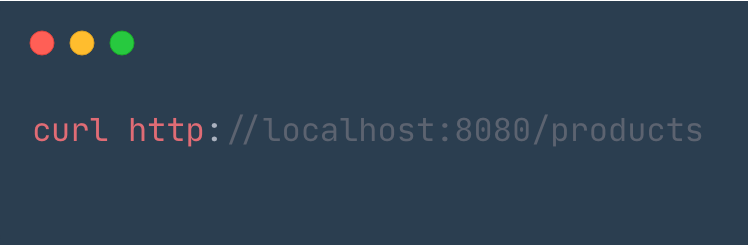
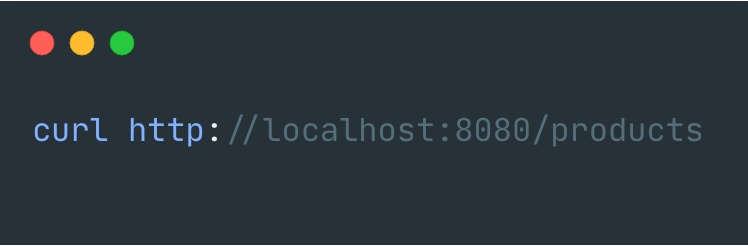
f

Changed region(s): [[0.0307, 0.4837, 0.2767, 0.5976]]

diff --git a/.cursor/skills/code-image-generator/SKILL.md b/.cursor/skills/code-image-generator/SKILL.md
@@ -7,7 +7,7 @@ description: Generate styled code images for blog posts using carbon-now-cli. Us
 
 ## Overview
 
-Generate styled code images for the Burgyn blog using `carbon-now-cli`. Images use one-dark theme with syntax highlighting (light text), background `#2B3E50`, macOS window controls, no padding, no line numbers, no shadow.
+Generate styled code images for the Burgyn blog using `carbon-now-cli`. Images use the built-in Material theme (bright syntax highlighting), background `#263238`, macOS window controls, no padding, no line numbers, no shadow.
 
 ## Workflow
 
@@ -36,7 +36,7 @@ The script uses `npx carbon-now-cli`; no global install required.
 
 ## Config
 
-Preset `burgyn-blog` in [carbon-now.json](carbon-now.json): background `#2B3E50`, JetBrains Mono, one-dark theme (syntax highlighting, light text), macOS window controls (no title text), no line numbers, no shadow, no watermark, zero padding.
+Preset `burgyn-blog` in [carbon-now.json](carbon-now.json): Material theme, background `#263238`, JetBrains Mono, macOS window controls (no title text), no line numbers, no shadow, no watermark, zero padding.
 
 ## Naming Convention
 
